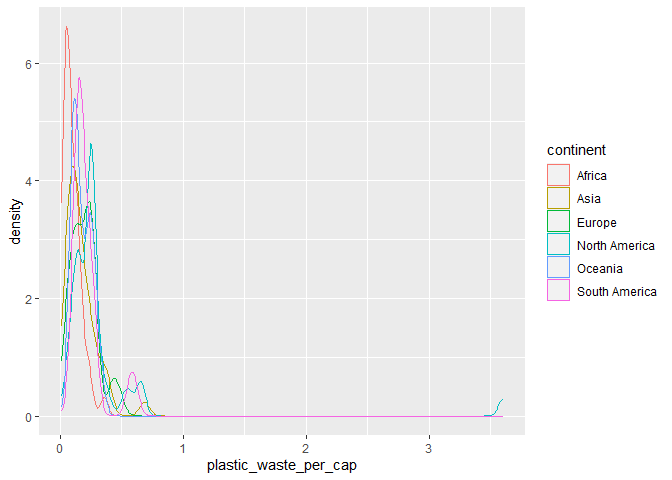
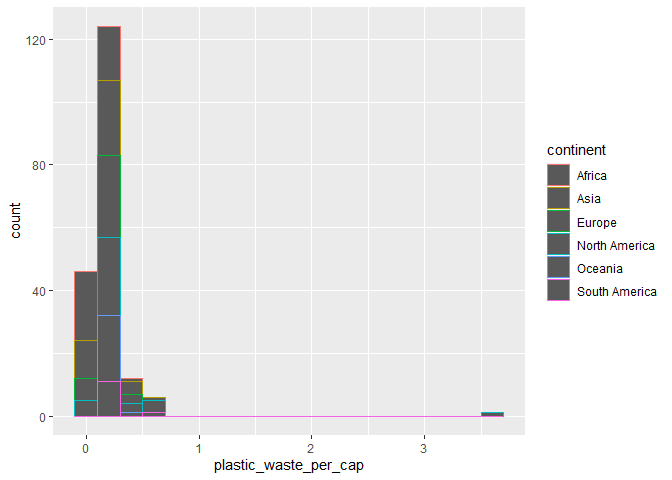
updated R!

diff --git a/lab-02.md b/lab-02.md
@@ -9,24 +9,6 @@ Ryan W
 library(tidyverse) 
 ```
 
-    ## Warning: package 'tidyverse' was built under R version 4.1.3
-
-    ## Warning: package 'ggplot2' was built under R version 4.1.3
-
-    ## Warning: package 'tibble' was built under R version 4.1.3
-
-    ## Warning: package 'tidyr' was built under R version 4.1.3
-
-    ## Warning: package 'readr' was built under R version 4.1.3
-
-    ## Warning: package 'purrr' was built under R version 4.1.3
-
-    ## Warning: package 'dplyr' was built under R version 4.1.3
-
-    ## Warning: package 'stringr' was built under R version 4.1.3
-
-    ## Warning: package 'forcats' was built under R version 4.1.3
-
 ``` r
 plastic_waste <- read.csv("data/plastic-waste.csv")
 ```
@@ -68,10 +50,10 @@ plastic_waste %>%
 ``` r
 ggplot(data = plastic_waste,
        aes(x = plastic_waste_per_cap)) +
-  geom_density()
+  geom_histogram(binwidth = 0.2)
 ```
 
-    ## Warning: Removed 51 rows containing non-finite values (`stat_density()`).
+    ## Warning: Removed 51 rows containing non-finite values (`stat_bin()`).
 
 ![](lab-02_files/figure-gfm/plastic-waste-continent-2.png)<!-- -->
 
@@ -79,10 +61,10 @@ ggplot(data = plastic_waste,
 ggplot(data = plastic_waste,
        mapping = aes(x = plastic_waste_per_cap,
                      color = continent)) +
-  geom_density()
+  geom_histogram(binwidth = 0.2)
 ```
 
-    ## Warning: Removed 51 rows containing non-finite values (`stat_density()`).
+    ## Warning: Removed 51 rows containing non-finite values (`stat_bin()`).
 
 ![](lab-02_files/figure-gfm/plastic-waste-continent-3.png)<!-- -->
 
@@ -91,10 +73,10 @@ ggplot(data = plastic_waste,
        mapping = aes(x = plastic_waste_per_cap,
                      color = continent,
                      fill = continent)) +
-  geom_density()
+  geom_histogram(binwidth = 0.2)
 ```
 
-    ## Warning: Removed 51 rows containing non-finite values (`stat_density()`).
+    ## Warning: Removed 51 rows containing non-finite values (`stat_bin()`).
 
 ![](lab-02_files/figure-gfm/plastic-waste-continent-4.png)<!-- -->
 
@@ -103,10 +85,15 @@ ggplot(data = plastic_waste,
        mapping = aes(x = plastic_waste_per_cap,
                      color = continent,
                      fill = continent)) +
-  geom_density(alpha = 0.7)
+  geom_histogram(bindwidth = 0.2, alpha = 0.7)
 ```
 
-    ## Warning: Removed 51 rows containing non-finite values (`stat_density()`).
+    ## Warning in geom_histogram(bindwidth = 0.2, alpha = 0.7): Ignoring unknown
+    ## parameters: `bindwidth`
+
+    ## `stat_bin()` using `bins = 30`. Pick better value with `binwidth`.
+
+    ## Warning: Removed 51 rows containing non-finite values (`stat_bin()`).
 
 ![](lab-02_files/figure-gfm/plastic-waste-continent-5.png)<!-- -->
 
@@ -117,7 +104,7 @@ ggplot(data = plastic_waste,
        mapping = aes(x = plastic_waste_per_cap,
                      color = continent,
                      fill = continent)) +
-  geom_density(alpha = 0.5)
+  geom_density(alpha = 0.7)
 ```
 
     ## Warning: Removed 51 rows containing non-finite values (`stat_density()`).
